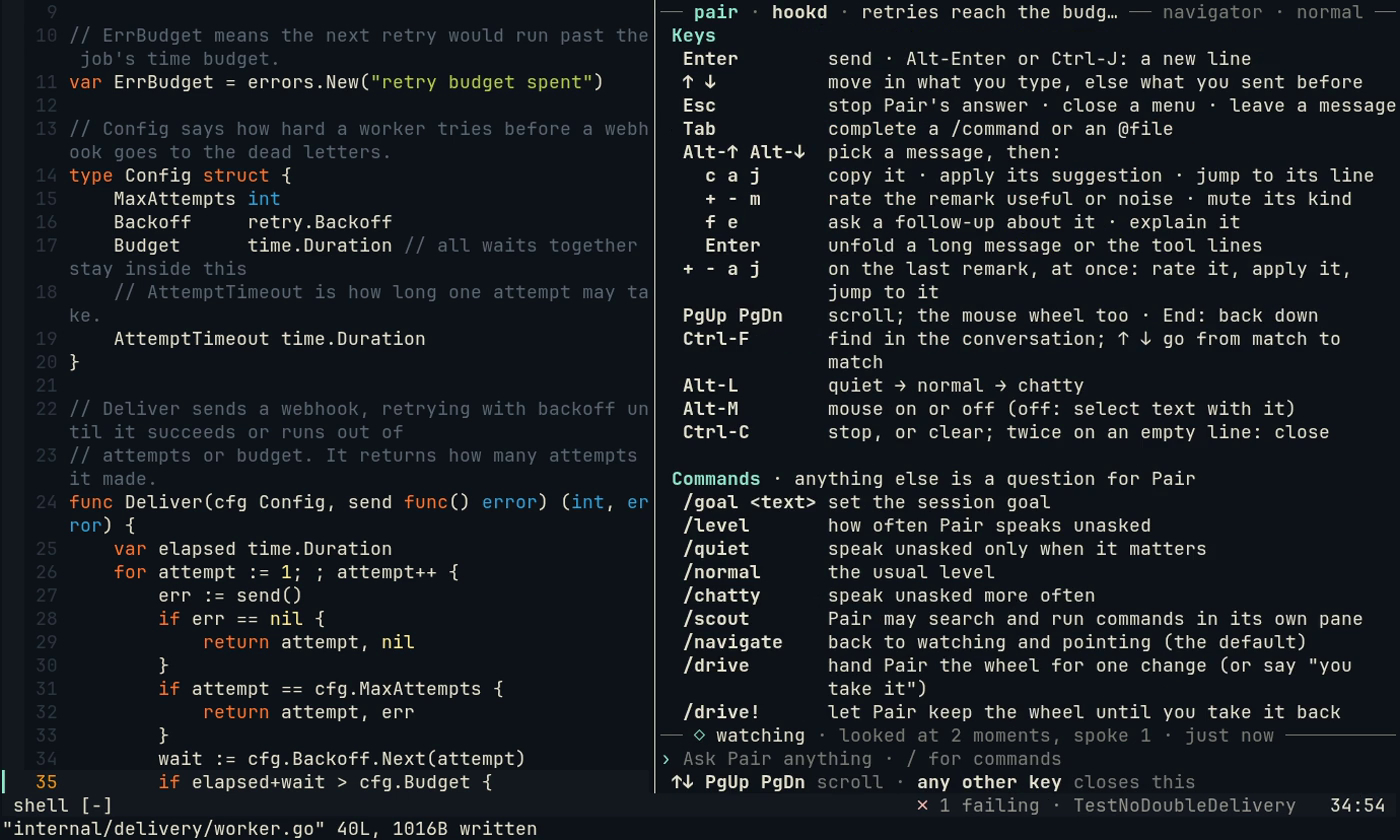
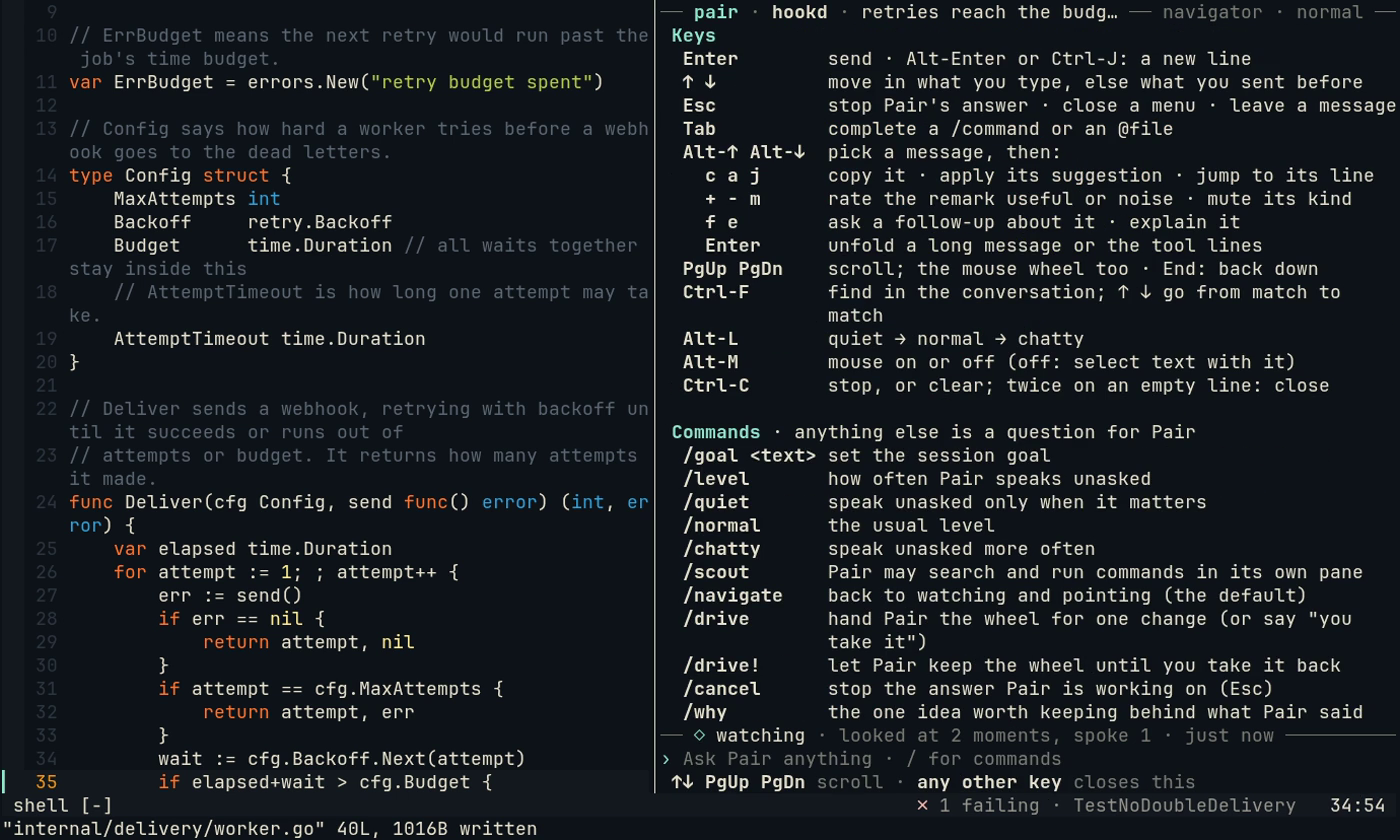
Chat pane: remark keys after Alt-↑, find over segments (BDY-71 review)
- A remark's keys no longer act on an empty line: a question that starts
  with a, j, + or - was taken as a key (are you sure? applied the
  suggestion). They work once the remark is picked; the first Alt-↑ picks
  it, and its action line says so: · Alt-↑ first.
- Find matches over the segments of a line, so a phrase, or words and a
  code span, is one match; one over a wrap still finds its message.

Docs, help and the chat captures follow.

Changed region(s): [[0.4607, 0.3095, 0.9829, 0.8667], [0.4914, 0.8048, 0.5529, 0.8667]]

diff --git a/docs/chat.md b/docs/chat.md
@@ -43,7 +43,7 @@ Four rows of chrome, two of them rules with words in them; the rest is the conve
          finds the job taken and gets a 409.
          │ - return &Lease{ttl: cfg.Budget}
          │ + return &Lease{ttl: cfg.Budget + cfg.AttemptTimeout}
-         + useful  - noise  a apply  j jump  · Alt-↑ more
+         + useful  - noise  a apply  j jump  · Alt-↑ first
 
    you   why does the third retry get a 409 and not a 200?
          ⎿ read internal/queue/lease.go 1-40 · searched AttemptTimeout
@@ -51,10 +51,11 @@ Four rows of chrome, two of them rules with words in them; the rest is the conve
 
   A remark is one unit: what about, its words, its diff behind the same `│ ` bar as a code block, and last its
   **action line**, the keys that work on it, spaced like buttons: `+` useful, `-` noise, `a` takes its suggestion,
-  `j` goes to its line (each only where it applies), and `Alt-↑` for the rest ([below](#acting-on-a-message)). These
-  keys act at once on an empty line, while the remark is the last thing said (a note after it, such as the tests on
-  save, does not count); once you rate it, or you or Pair say something after it, the line goes and the letters are
-  letters again.
+  `j` goes to its line (each only where it applies). They work once the remark is picked: the first `Alt-↑` picks
+  it (the aside says so), and the line drops the aside. On an empty line the letters stay letters, so a question that
+  starts with `a` or `-` is typed, never taken as a key. The line shows while the remark is the last thing said (a
+  note after it, such as the tests on save, does not count); once you rate it, or you or Pair say something after it,
+  the line goes.
 
   Before Pair runs or types a command it asks, as `pair`: the question in words, and the command under it behind a
   bar, whole (backticks in it too), to read and copy. `y` allows it, `n` or `Esc` declines (and drops what you had typed), or type an answer (the name of another
@@ -158,7 +159,7 @@ Anything you type that is not a command is a question for Pair; it is always ans
 
 ## Acting on a message
 
-**Alt-↑** picks the last message, and further presses go up (**Alt-↓** down; a click picks one too). A bar marks it,
+**Alt-↑** picks the last message (the last remark instead, while its [action line](#what-you-see) shows), and further presses go up (**Alt-↓** down; a click picks one too). A bar marks it,
 and the footer lists what you can do with it, with the message's time on the right:
 
 | Key | On the message |
@@ -173,9 +174,9 @@ and the footer lists what you can do with it, with the message's time on the rig
 | `Enter` | Unfold a long message, or the tool lines one per line |
 | `Esc` | Back to typing; any other key does that too |
 
-The last remark, while it is the last thing said, has these keys on its own [action line](#what-you-see), and `+`,
-`-`, `a` and `j` work on it without picking it. Typing `+` or `-` and Enter rates the last remark later too, and
-`/useful 2` or `/noise 2` an older one, as `+2` and `-2` do after `/remarks` (its list ends the action line).
+The last remark, while it is the last thing said, shows `+`, `-`, `a` and `j` on its own
+[action line](#what-you-see): `Alt-↑` then the key. Typing `+` or `-` and Enter rates the last remark too, and
+`/useful 2` or `/noise 2` an older one, as `+2` and `-2` do after `/remarks`.
 
 ![A message picked with Ctrl-F and Enter: the bar on its left, the match it was found by in green, and the keys that act on it in the footer](images/chat-select.png)
 
@@ -219,7 +220,6 @@ The last remark, while it is the last thing said, has these keys on its own [act
 | `Ctrl-C` | Stop the answer; else clear what you typed; twice on an empty line, close the pane |
 | `Ctrl-D` | Close the pane, on an empty line |
 | `y` `n` | While Pair asks: allow, decline; `Esc` declines too (for a `/gen` question: take the guess or the answer given, cancel or leave it to Pair) |
-| `+` `-` `a` `j` | On the last remark, on an empty line, while it is the last thing said: rate it, take its suggestion, go to its line |
 | `?` | The keys, on an empty line |
 
 Closing the pane leaves the session running; `pair` or `:Pair chat` opens it again, with the conversation so far.

diff --git a/docs/cli.md b/docs/cli.md
@@ -108,7 +108,7 @@ question for Pair (`@here` in it sends your selection in Neovim along), and a li
 | `/drive [what]` | Hand Pair the wheel for one change |
 | `/drive! [what]` | The same, and Pair keeps the wheel until you take it back |
 | `/cancel` | Stop the answer Pair is working on (`Esc` in the pane); while it drives, take the wheel back |
-| `+` or `/useful`, `-` or `/noise` | Your verdict on Pair's last unasked remark (in the full-screen pane, while its action line shows, `+` and `-` rate it at once) |
+| `+` or `/useful`, `-` or `/noise` | Your verdict on Pair's last unasked remark (in the full-screen pane, `Alt-↑` picks it while its action line shows, then `+` or `-`) |
 | `/remarks` | The last nine remarks in the project; `+2` (or `/useful 2`) and `-3` (or `/noise 3`) rate an older one |
 | `?` or `/why` | The idea worth keeping behind what Pair said last (in the full-screen pane, `?` on an empty line shows the keys: type `/why`) |
 | `/explain [n]` | The same; with `n`, about remark `n` of `/remarks` |
